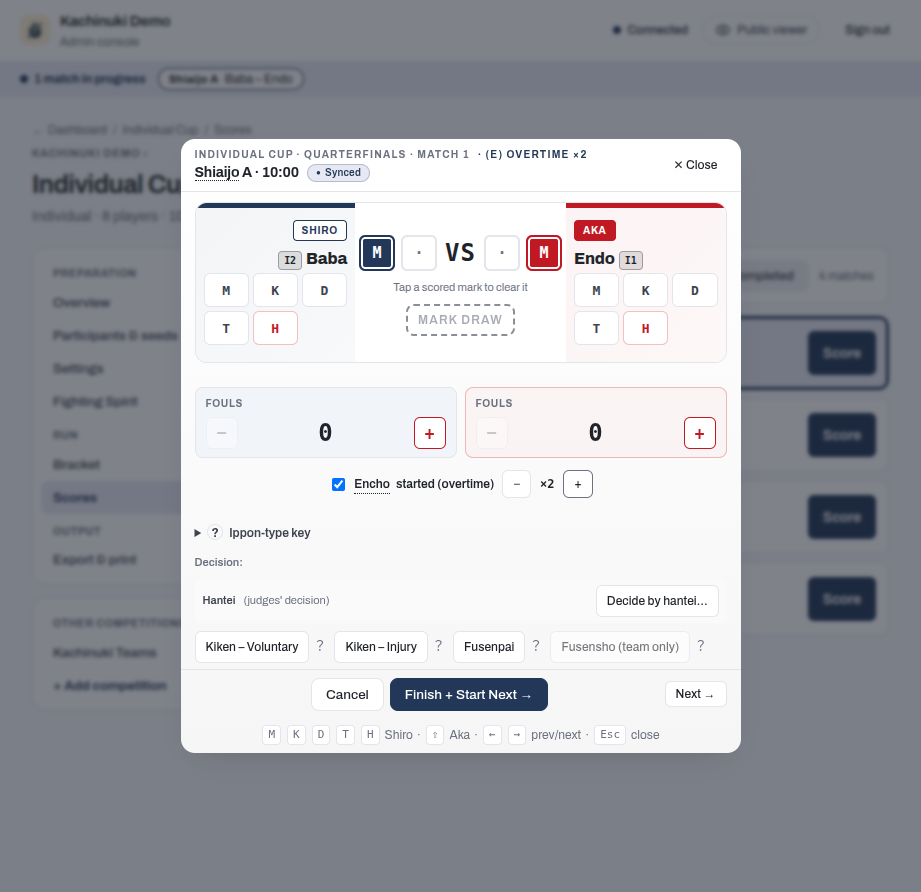
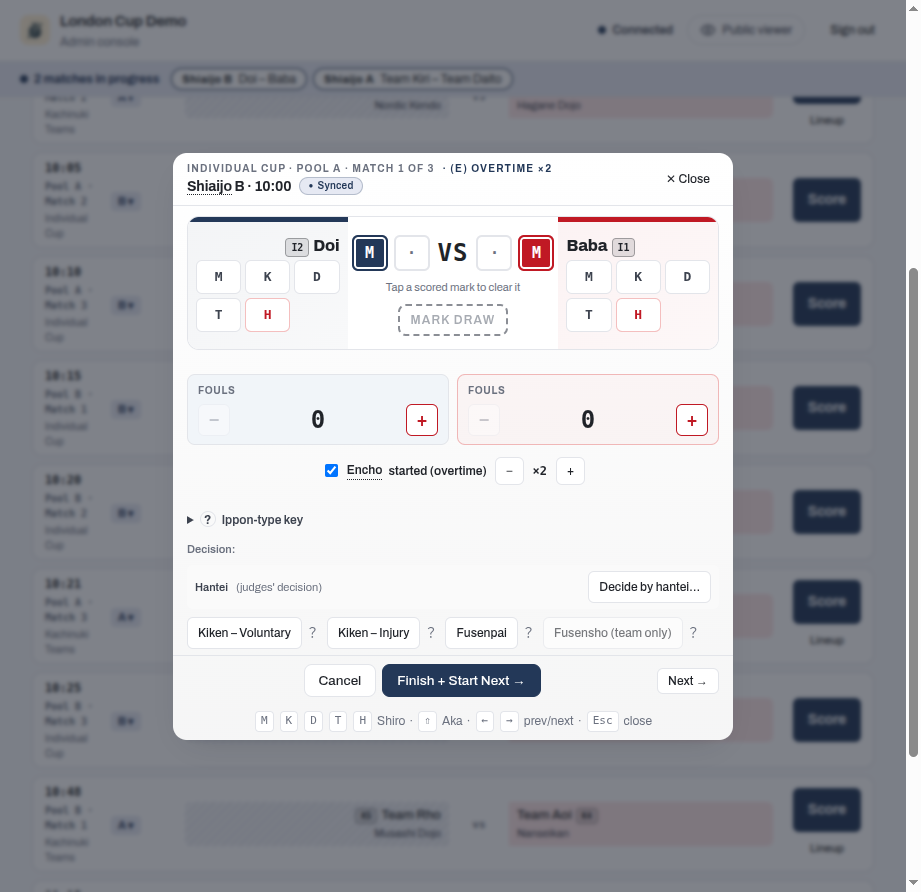
docs(bc-sccl): re-shoot the two encho screenshots
mobile-encho-overtime carried the SHIRO/AKA header pills. Re-staged
through the UI: the pill only opens from its icon, not its label, so
the Encho block is reachable only that way. Shows what the caption
promises -- the box ticked, the counter at x2, and "(E) OVERTIME x2" in
the header -- on a tied M-M scoreline, which is the state that sends a
match to overtime in the first place.

viewer-result-encho was wrong twice over: "Final" on both rows, and a
HANTEI badge. That badge is the sharper one, because this PR's own
sweep in final_means_the_last_knockout_match.test.jsx now fails if any
module renders it, so the docs were showing a control the suite bans.
The new shot carries the same two results the caption describes -- an
overtime win reading "M (E) -" and a hantei with "Ht" beside the winner.

One prose change, and it is the caption catching up with the image: it
opened "Two completed results" and the page now lists three, because the
extra bout could not be reverted -- the timestamp guard correctly
refused it and returned {"applied": false} rather than rewriting a newer
result. Dropped the count instead of overstating it; the two results the
sentence goes on to describe are both there.

make docs/build exits 0.

diff --git a/docs/user-guide/court-operators/recording-decisions.md b/docs/user-guide/court-operators/recording-decisions.md
@@ -40,7 +40,7 @@ Completed results follow the paper score sheet's layout. The centre, between the
 
 Everything else is a result, written beside the competitor it names: **Ht** next to the winner of a judges' decision, **Kiken** next to the competitor who withdrew, **Fus.** next to a no-show. A match decided by hantei after a tied overtime reads **M Ht (E) K**, with the winner's mark on the winner's side of the centre. A team encounter shows its team totals in the score cell instead, so for those the marks appear on the bracket and in the exported workbook.
 
-![Two completed results on the public viewer: an overtime win reading M, the E marker, then a dash for the side with no points, and a hantei result with the Ht mark beside the winner.](../../screenshots/viewer-result-encho.png)
+![Completed results on the public viewer: an overtime win reading M, the E marker, then a dash for the side with no points, and a hantei result with the Ht mark beside the winner.](../../screenshots/viewer-result-encho.png)
 
 ## Daihyosen
 
